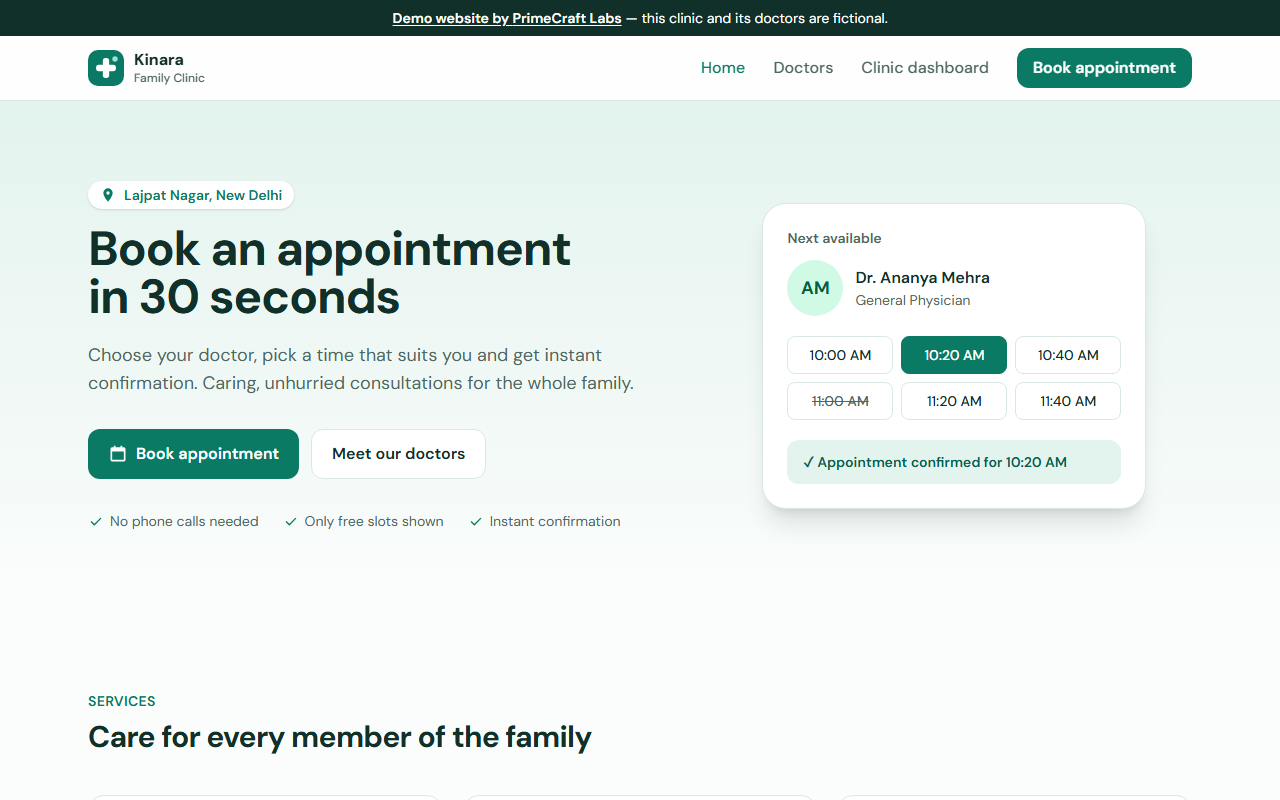
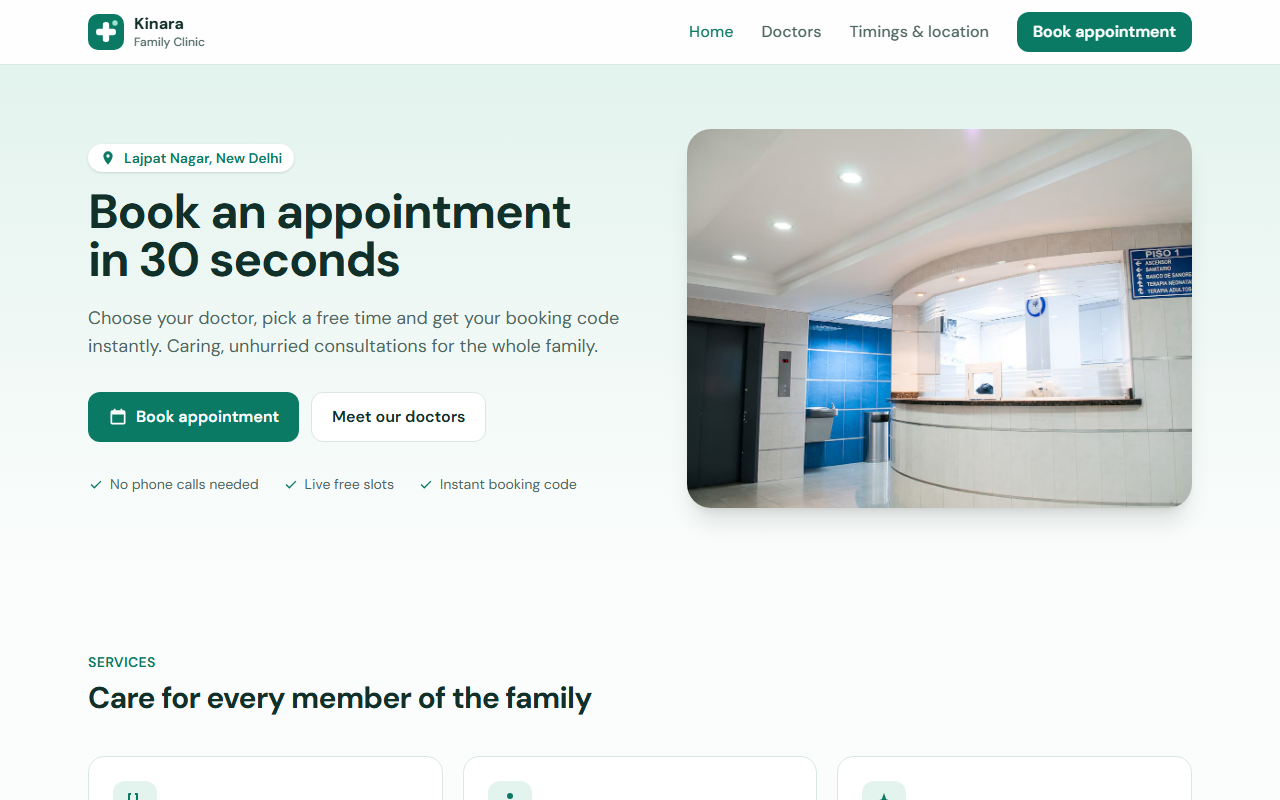
Show the clinic as a concept booking web app with a new screenshot

diff --git a/src/data/projects.ts b/src/data/projects.ts
@@ -41,21 +41,22 @@ export const projects: Project[] = [
   },
   {
     slug: "clinic-booking",
-    title: "Clinic with online booking",
-    category: "Demo · Local business",
+    title: "Clinic booking web app",
+    category: "Concept project · Clinic",
     status: "live",
     image: "/work/clinic-booking.png",
     liveUrl: site.urls.demoClinic,
-    summary: "Doctor profiles, services and an appointment system where patients choose their own time slot.",
+    summary: "Kinara Family Clinic: a clinic website where patients book a free slot themselves, with a live dashboard for the clinic and its doctors.",
     problem:
-      "Clinics lose patients when the phone is busy, and the front desk spends hours managing appointments by hand.",
+      "Clinics lose patients when the phone is busy. The front desk manages appointments by hand, double bookings happen, and doctors can't easily see their own day.",
     solution:
-      "A clinic website where patients see doctors and services and book an available slot themselves, while the clinic sees every booking in one simple dashboard.",
+      "A mobile-first clinic website where patients see doctors and live free slots and book in a few taps. Double booking is blocked by the database itself. Each booking gets a code, a calendar invite and a WhatsApp message, and the clinic gets an email alert. Staff log in to a live dashboard: the admin adds doctors, sets their schedules and invites their logins, and each doctor sees only their own patients and manages their profile and leave days. Kinara Family Clinic is a concept clinic we designed to show the finished result.",
     features: [
-      "Doctor profiles and services",
-      "Patients pick an available date and time",
-      "Booking dashboard for the clinic",
-      "Confirmation by WhatsApp or email",
+      "Live free slots: two patients can never book the same time",
+      "Booking code, Add to Google Calendar / .ics and WhatsApp message for the patient",
+      "Email alert to the clinic for every booking",
+      "Admin dashboard: add doctors, set schedules, publish or hide them, invite their logins",
+      "Doctor login: own patients only, profile, avatar and leave days that can't be booked",
     ],
     tech: ["Next.js", "Tailwind CSS", "Firebase"],
     codeUrl: site.urls.demoClinicCode,
